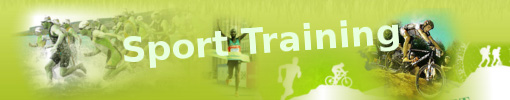
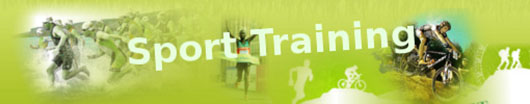
ban and css correction

diff --git a/static/css/style.css b/static/css/style.css
@@ -60,7 +60,7 @@ a:hover {
 	float:right;
 	width:180px;
 	background:#efefef;
-	margin-right:10px;
+	margin-right:0px;
 	}
 #content {
 	float:left;
@@ -227,7 +227,7 @@ a:hover.feed-button {
 /* Extra's */
 
 #ban {
-	width:510px;
+	width:509px;
 	height:100px;
 	background:url(/static/images/ban.jpg) no-repeat;
 	padding:5px;
